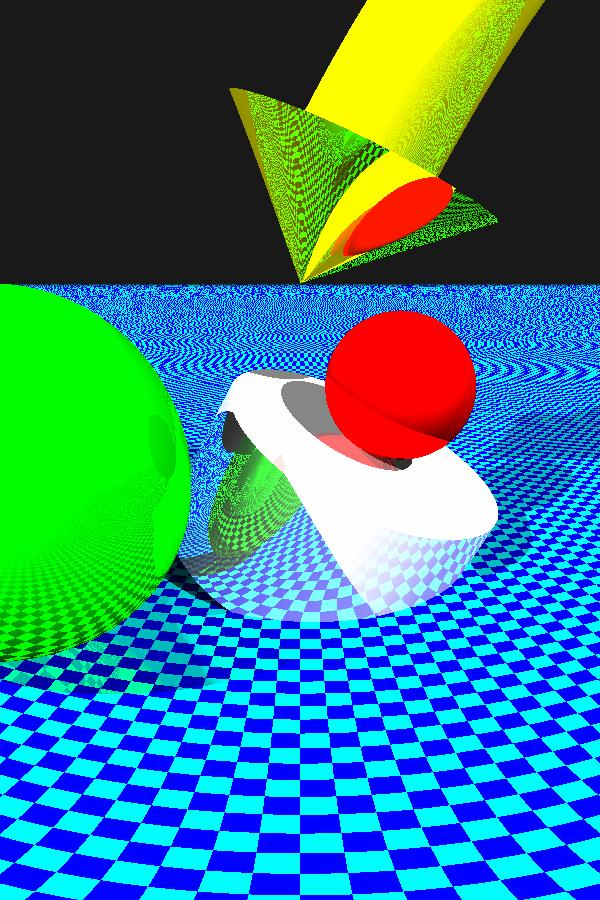
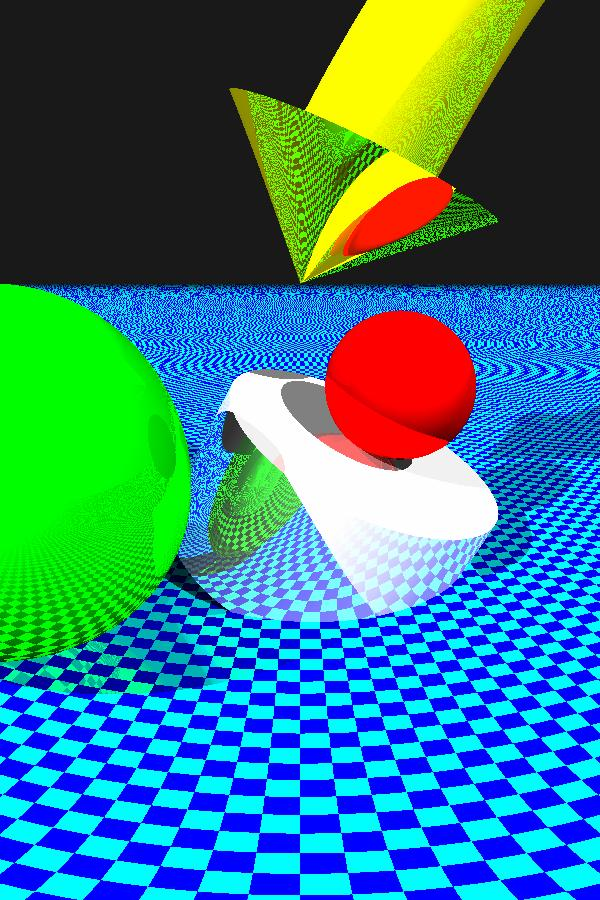
Inverse square law for light sources

Changed region(s): [[0.03, 0.3111, 1.0, 0.3422], [0.66, 0.1244, 0.69, 0.1556]]

diff --git a/src/main/java/org/glencross/raytrace/ChristmasTreePicture.java b/src/main/java/org/glencross/raytrace/ChristmasTreePicture.java
@@ -14,6 +14,8 @@ public class ChristmasTreePicture {
     public static void main(String[] args) throws IOException {
 
         List<LightSource> lightSources = new ArrayList<>();
+        lightSources.add(new LightSource(Colour.WHITE, new Vector(-2, 0.1, -2), 1.5));
+        lightSources.add(new LightSource(Colour.WHITE, new Vector( 2, 0.1, -2), 1.5));
 
         List<Shape> shapes = new ArrayList<>();
         shapes.addAll(Arrays.asList(
@@ -23,21 +25,21 @@ public class ChristmasTreePicture {
                         new Vector(0, -1, 0).toUnit(),
                         1.5,
                         2.5,
-                        new Surface(Colour.DARK_GREEN, 0)),
+                        new Surface(Colour.DARK_GREEN, 0.3)),
                 // Pot
                 new Cone(
                         new Vector(0, -3 ,0),
                         new Vector(0, 1, 0).toUnit(),
                         0.7,
                         3.5,
-                        new Surface(Colour.BLUE, 0.4)),
+                        new Surface(Colour.BLUE, 1)),
                 // Trunk
                 new Cylinder(
                         new Vector(0, 0 ,0),
                         new Vector(0, 1, 0).toUnit(),
                         0.2,
                         1,
-                        new Surface(Colour.BROWN, 0)),
+                        new Surface(Colour.BROWN, 0.2)),
                 new ChequeredPlane(new Vector(0, 1, 0).toUnit(), 0,
                         new Surface(Colour.RED, 0.5),
                         new Surface(Colour.GREEN, 0.9),
@@ -47,7 +49,7 @@ public class ChristmasTreePicture {
         // Baubles and candles
         for (int i = 0; i < 200; i++) { // 200
             double h = (i*1.4582d) % 1d;
-            h = (1-(h*h))*2.4 + 0.1;
+            h = (1-(h*h))*2.4;
             double r = 0.02+(h/2.5)*1.5;
             double a = (i * 43d) % 360;
             double x = r * Math.cos(Math.toRadians(a));
@@ -63,14 +65,14 @@ public class ChristmasTreePicture {
                 case 2:
                 case 3:
                     shapes.add(new Sphere(
-                            new Vector(location.getX(), location.getY()+0.08, location.getZ()),
+                            new Vector(location.getX(), location.getY()+0.06, location.getZ()),
                             0.02, new Surface(Colour.LIGHT_YELLOW, 1)));
                     shapes.add(new Cylinder(
-                            new Vector(location.getX(), location.getY()-0.02, location.getZ()),
+                            new Vector(location.getX(), location.getY()-0.04, location.getZ()),
                             new Vector(0, 1, 0), 0.02, 0.08, new Surface(Colour.WHITE, 1))
                     );
-                    lightSources.add(new LightSource(new Colour(0.1, 0.1, 0.05),
-                            new Vector(location.getX(), location.getY()+0.105, location.getZ())));
+                    lightSources.add(new LightSource(Colour.LIGHT_YELLOW,
+                            new Vector(location.getX(), location.getY()+0.085, location.getZ()), 0.1));
                     break;
             }
         }
@@ -87,6 +89,7 @@ public class ChristmasTreePicture {
             shapes.add(new Sphere(location, 0.05, new Surface(Colour.WHITE, 1)));
         }
 
+        // Star
         shapes.add(new Triangle(new Vector(0, 3.4, -0.2), new Vector(-0.15, 3.7, -0.2), new Vector(0.15, 3.7, -0.2),
                 new Surface(Colour.LIGHT_YELLOW, 1)));
         shapes.add(new Triangle(new Vector(-0.15, 3.5, -0.2), new Vector(0, 3.8, -0.2), new Vector(0.15, 3.5, -0.2),

diff --git a/src/main/java/org/glencross/raytrace/CylinderPicture.java b/src/main/java/org/glencross/raytrace/CylinderPicture.java
@@ -16,8 +16,8 @@ public class CylinderPicture {
         builder.setViewerDirection(new Vector(0, -0.3, 1).toUnit());
         builder.setAmbientLight(new Colour(0.1, 0.1, 0.1));
         builder.setLightSources(Arrays.asList(
-                new LightSource( Colour.WHITE, new Vector(300, 300, -300)),
-                new LightSource( Colour.WHITE, new Vector(-300, 300, -300))
+                new LightSource( Colour.WHITE, new Vector(300, 300, -300), 500),
+                new LightSource( Colour.WHITE, new Vector(-300, 300, -300), 500)
                 ));
         builder.setShapes(Arrays.asList(
                 new Cylinder(

diff --git a/src/main/java/org/glencross/raytrace/RayTracer.java b/src/main/java/org/glencross/raytrace/RayTracer.java
@@ -117,6 +117,10 @@ public class RayTracer {
 
                 if (shadowing > 0) {
                     Colour lightSourceIllumination = lightSource.getColour().times(alignment).times(shadowing);
+                    // Inverse square law
+                    double distanceFactor = (distance.scale()/lightSource.getBrightness());
+                    lightSourceIllumination = lightSourceIllumination.times(1/(distanceFactor*distanceFactor));
+
                     lightSourceIllumination = applyFog(d, lightSourceIllumination);
                     illumination = illumination.add(lightSourceIllumination);
                 }

diff --git a/src/main/java/org/glencross/raytrace/TeapotPicture.java b/src/main/java/org/glencross/raytrace/TeapotPicture.java
@@ -18,8 +18,8 @@ public class TeapotPicture {
         builder.setViewerDirection(new Vector(0, -0.1, 1).toUnit());
         builder.setAmbientLight(new Colour(0.1, 0.1, 0.1));
         builder.setLightSources(Arrays.asList(
-                new LightSource( Colour.WHITE, new Vector(300, 300, -300)),
-                new LightSource( Colour.GREY, new Vector(-300, 300, -300))
+                new LightSource( Colour.WHITE, new Vector(300, 300, -300), 300),
+                new LightSource( Colour.GREY, new Vector(-300, 300, -300), 300)
                 ));
 
         List<Shape> teapotComponents = WavefrontLoader.load(

diff --git a/src/main/java/org/glencross/raytrace/LightSource.java b/src/main/java/org/glencross/raytrace/LightSource.java
@@ -2,12 +2,14 @@ package org.glencross.raytrace;
 
 public class LightSource {
 
+    private final double brightness;
     private Colour colour;
     private Vector location;
 
-    public LightSource(Colour colour, Vector location) {
+    public LightSource(Colour colour, Vector location, double brightness) {
         this.colour = colour;
         this.location = location;
+        this.brightness = brightness;
     }
 
     public Colour getColour() {
@@ -18,4 +20,7 @@ public class LightSource {
         return location;
     }
 
+    public double getBrightness() {
+        return brightness;
+    }
 }

diff --git a/src/main/java/org/glencross/raytrace/Picture1.java b/src/main/java/org/glencross/raytrace/Picture1.java
@@ -19,7 +19,7 @@ public class Picture1 {
         builder.setViewerDirection(new Vector(0, -0.1, 1).toUnit());
         builder.setAmbientLight(new Colour(0.5, 0.5, 0.5));
         builder.setLightSources(Arrays.asList(
-                new LightSource( Colour.WHITE, new Vector(300, 300, -300))));
+                new LightSource( Colour.WHITE, new Vector(300, 300, -300), 300)));
 
 
         CompositeShape pyramid = new CompositeShape(Arrays.asList(
